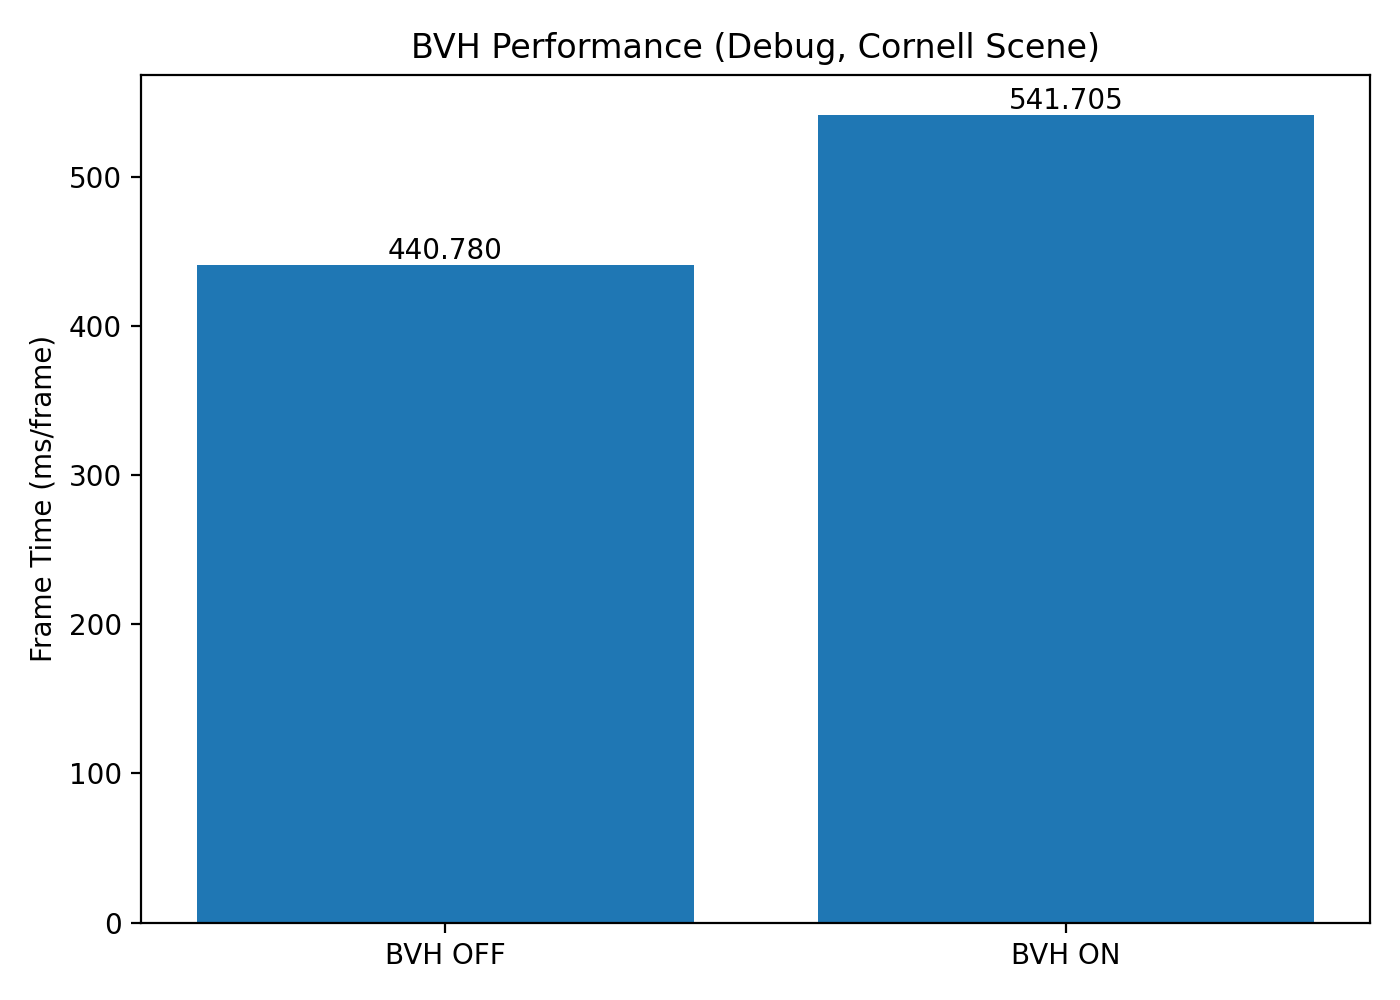
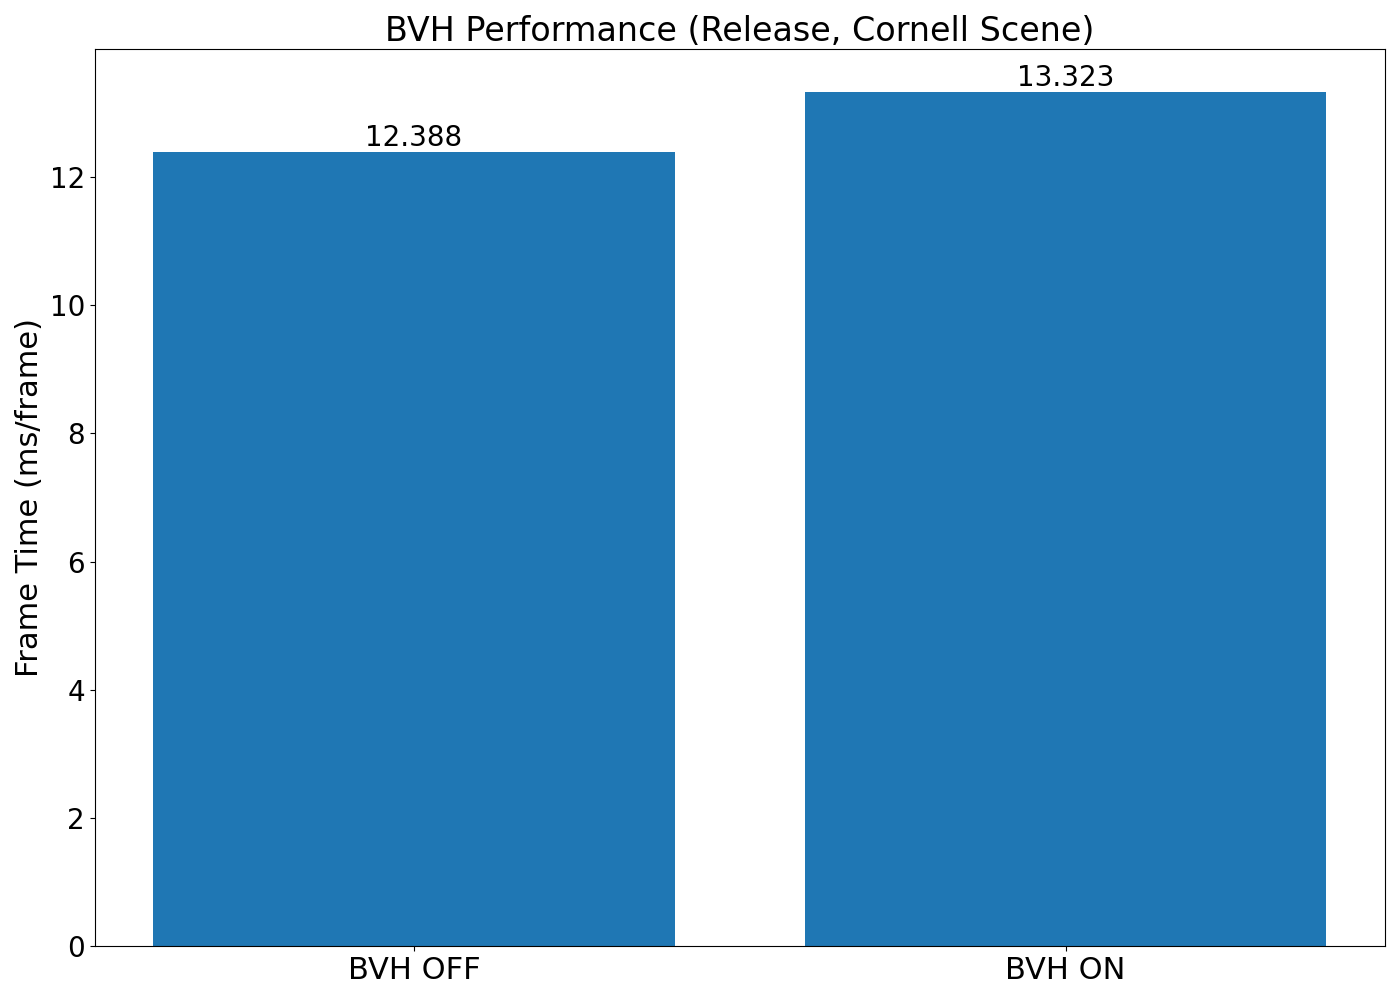
Finalize Release performance analysis

diff --git a/README.md b/README.md
@@ -102,8 +102,7 @@ I compared the naive triangle-intersection path against the triangle BVH using t
 
 
 
-
-For this imported-mesh benchmark, enabling BVH traversal reduced the reported application-level frame time by approximately 87.5%, with the BVH-off frame time approximately 7.99× the BVH-on frame time. Unlike the small Cornell scene, the 1,092-triangle mesh provides substantially more primitive-intersection work for the hierarchy to eliminate. The naive path tests mesh triangles directly, whereas BVH traversal can reject groups of triangles when their bounding boxes are not intersected by the ray.
+For this imported-mesh benchmark, enabling BVH traversal reduced the reported application-level frame time by approximately 75.7%, with the BVH-off frame time approximately 4.11× the BVH-on frame time. Unlike the small Cornell scene, the 1,092-triangle mesh provides substantially more primitive-intersection work for the hierarchy to eliminate. The naive path tests mesh triangles directly, whereas BVH traversal can reject groups of triangles when their bounding boxes are not intersected by the ray.
 
 These measurements are application-level Release-build measurements rather than isolated intersection-kernel timings, and the captures were taken at comparable iteration counts. I therefore treat the result as evidence for the benefit of the BVH in this particular imported-mesh workload rather than as a general performance guarantee.
 
@@ -348,7 +347,7 @@ Run the path tracer by passing a scene JSON file to the executable. For example:
 .\out\build\x64-Debug\bin\cis565_path_tracer.exe .\scenes\cornell.json
 ```
 
-For performance testing, I used the Visual Studio Release configuration. On systems with both integrated and discrete GPUs, ensure that the application is configured to use the discrete NVIDIA GPU for CUDA performance testing. The Release build was selected because it provides compiler optimizations representative of a deployed application and avoids the additional overhead associated with Debug builds.
+For performance testing, I used the Visual Studio Release configuration. The initial Release executable encountered a CUDA `device(s) is/are busy or unavailable` error during startup; configuring the application to use the discrete NVIDIA GPU resolved this issue, after which the Release benchmarks below ran successfully. The Release build was selected because it provides compiler optimizations representative of a deployed application and avoids the additional overhead associated with Debug builds.
 
 The custom scenes used for feature demonstrations, analysis, and the final render include `mesh_test.json`, `mesh_benchmark.json`, `refraction_showcase.json`, `dof_showcase.json`, `cornell_closed.json`, and `final_showcase.json`.
 
